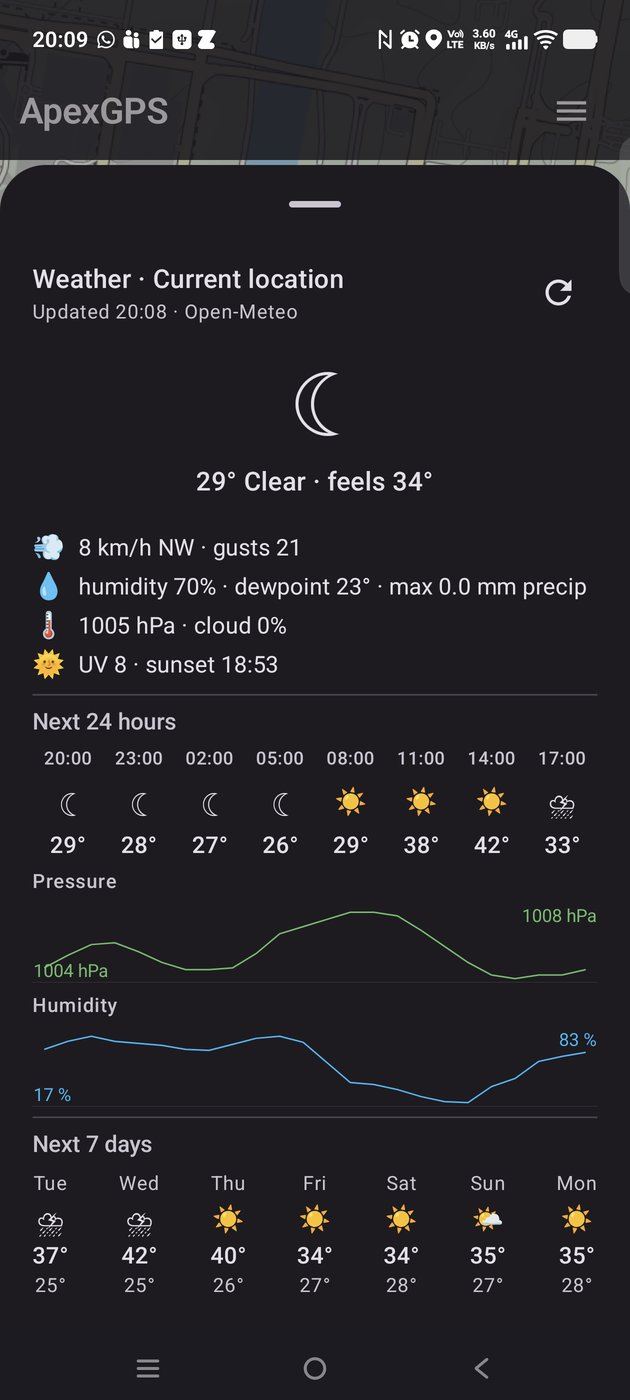
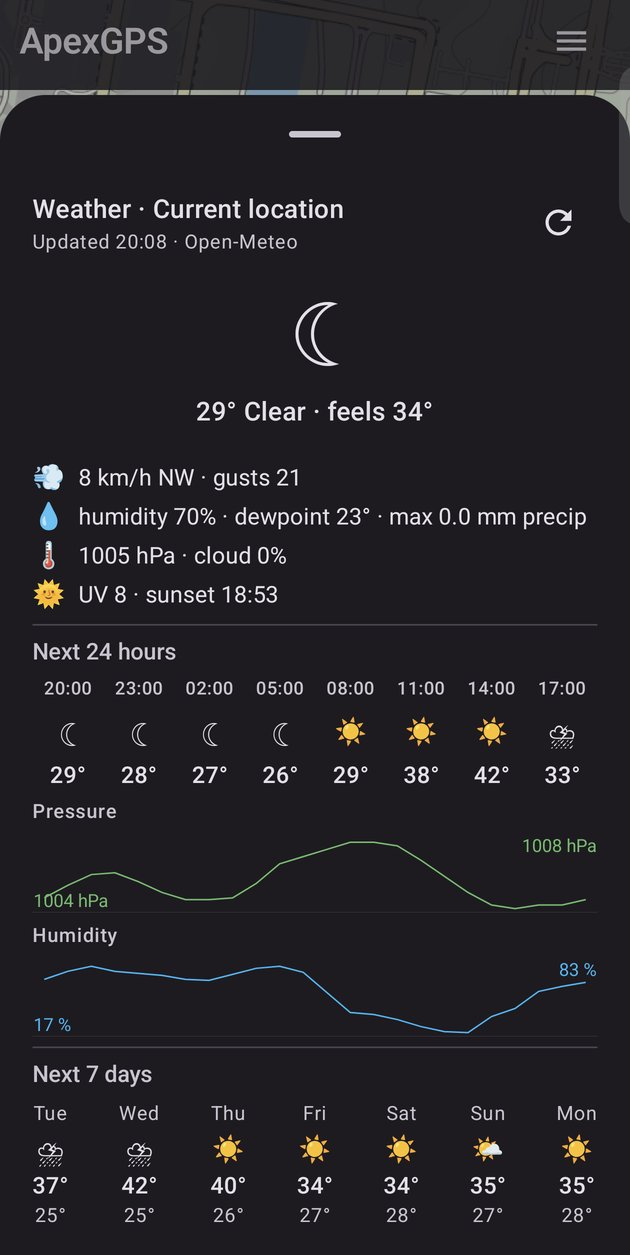
Re-crop weather + add nav-compass thumbnail; 7 tiles in one desktop row
- 06-weather.jpg: re-cropped to drop the Vivo status bar (WhatsApp /
  Instagram / etc. notification icons at the very top) and the system
  nav strip at the bottom. Same source PNG, just trimmed by the
  ~140 px top + 150 px bottom system bands. New aspect 630×1255
  matches the existing 01–05 thumbnails.
- 07-nav-compass.jpg: NEW — full-screen navigation compass screenshot
  showing DIST 2.03 km / target at 128° SE / accuracy ±5 m / Stop
  navigation pill. Same crop spec as 06.
- home.html: added the 7th tile after weather. Reading order is now
  world → relief → track-profile → planning → tracks-list → weather
  → nav-compass, which loosely follows record → review → plan →
  share → forecast → navigate.
- site.css: shrunk desktop tile width 165 → 140 px (gap kept at
  14 px) so all 7 tiles fit on one desktop row inside the 1100 px
  wrap container (7×140 + 6×14 = 1064 px, ~36 px slack).
- Mobile carousel breakpoint (≤480 px) is unaffected — tiles there
  use 76vw with 200 px max, untouched.

diff --git a/assets/css/site.css b/assets/css/site.css
@@ -137,10 +137,11 @@ section.alt { background: var(--bg-2); }
   padding: 4px;
 }
 .shots img {
-  /* Auto-size so 6 thumbnails fit in one row inside the 1100 px wrap.
-     (1100 − 5 × 14 gap) / 6 ≈ 171; we floor to 165 to leave a small
-     slack for browser scrollbar gutter / fractional rounding. */
-  width: 165px;
+  /* Auto-size so 7 thumbnails fit in one row inside the 1100 px wrap.
+     (1100 − 6 × 14 gap) / 7 ≈ 145; we floor to 140 to leave a small
+     slack for browser scrollbar gutter / fractional rounding.
+     Total: 7×140 + 6×14 = 1064 px, fits with ~36 px headroom. */
+  width: 140px;
   flex: 0 0 auto;
   border-radius: 22px;
   box-shadow: 0 12px 28px -8px rgba(12,24,40,0.35), 0 2px 6px rgba(0,0,0,0.08);

diff --git a/_layouts/home.html b/_layouts/home.html
@@ -42,6 +42,7 @@
       <img src="/assets/screenshots/04-planning.jpg" alt="Track planner with numbered vertices on satellite imagery" loading="lazy">
       <img src="/assets/screenshots/05-tracks-list.jpg" alt="Tracks list with sort menu" loading="lazy">
       <img src="/assets/screenshots/06-weather.jpg" alt="Weather sheet with hourly forecast and 7-day outlook" loading="lazy">
+      <img src="/assets/screenshots/07-nav-compass.jpg" alt="Full-screen navigation compass with target distance and bearing" loading="lazy">
     </div>
   </div>
 </section>